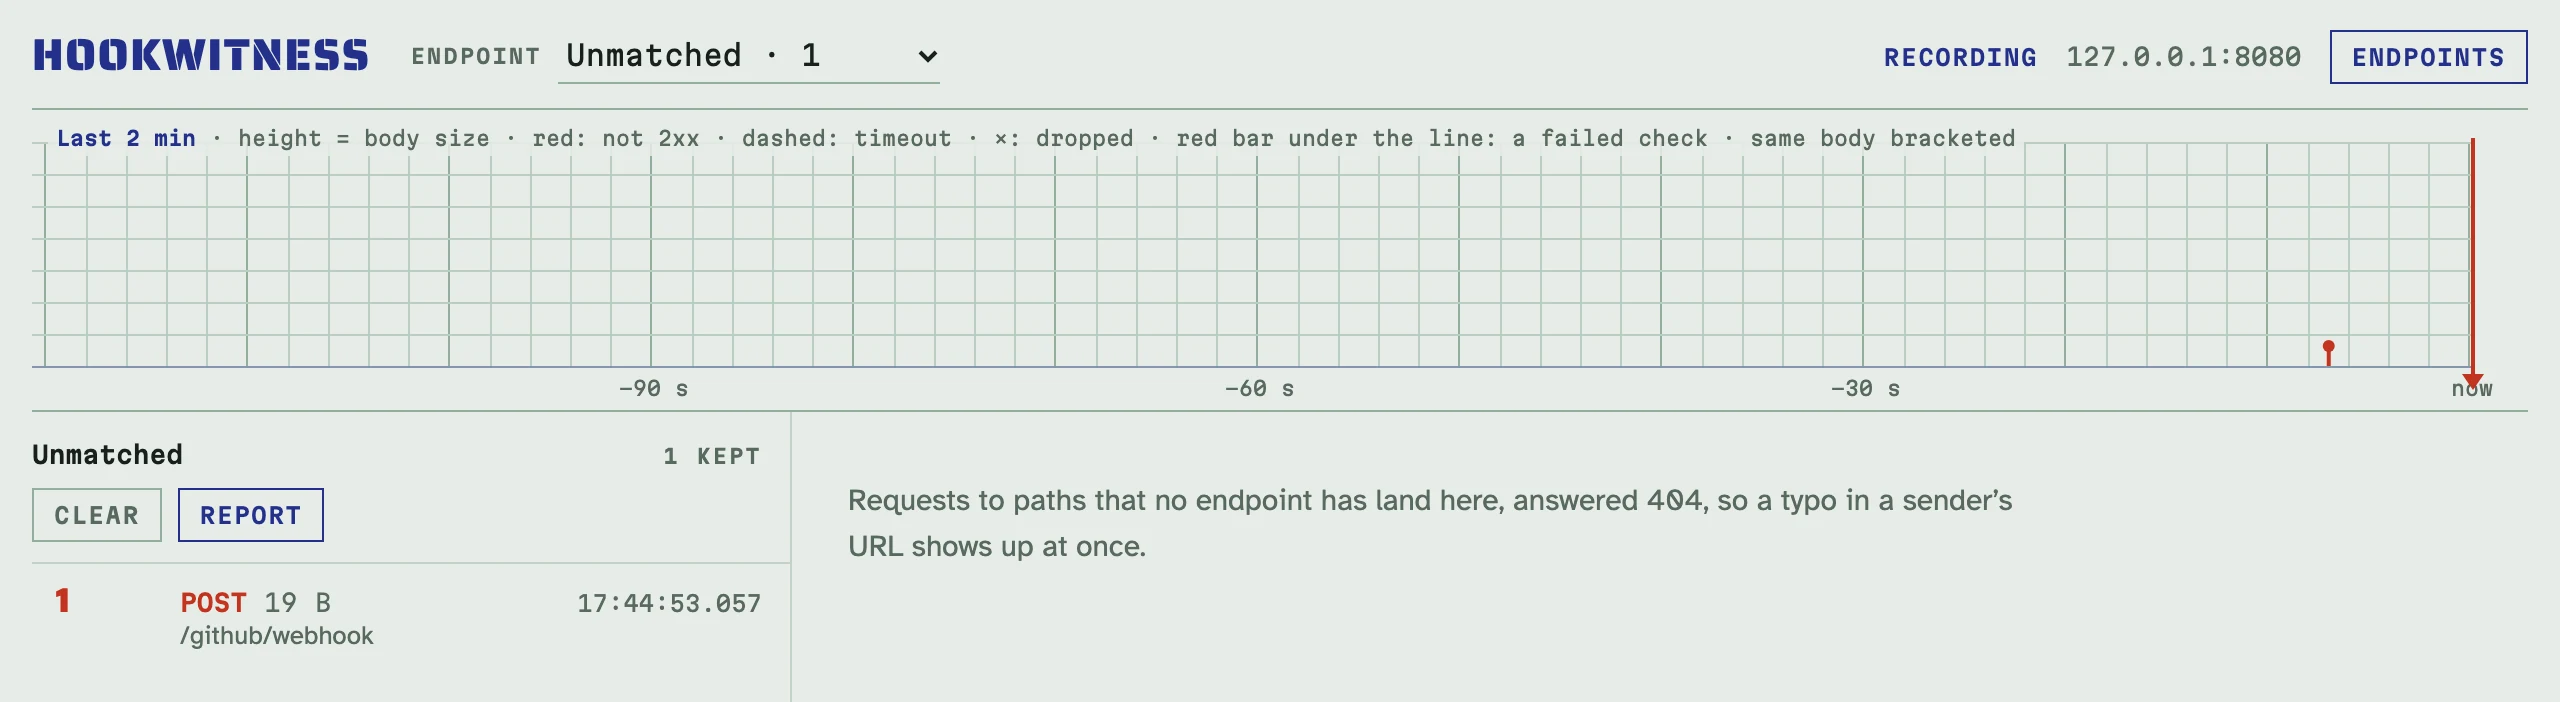
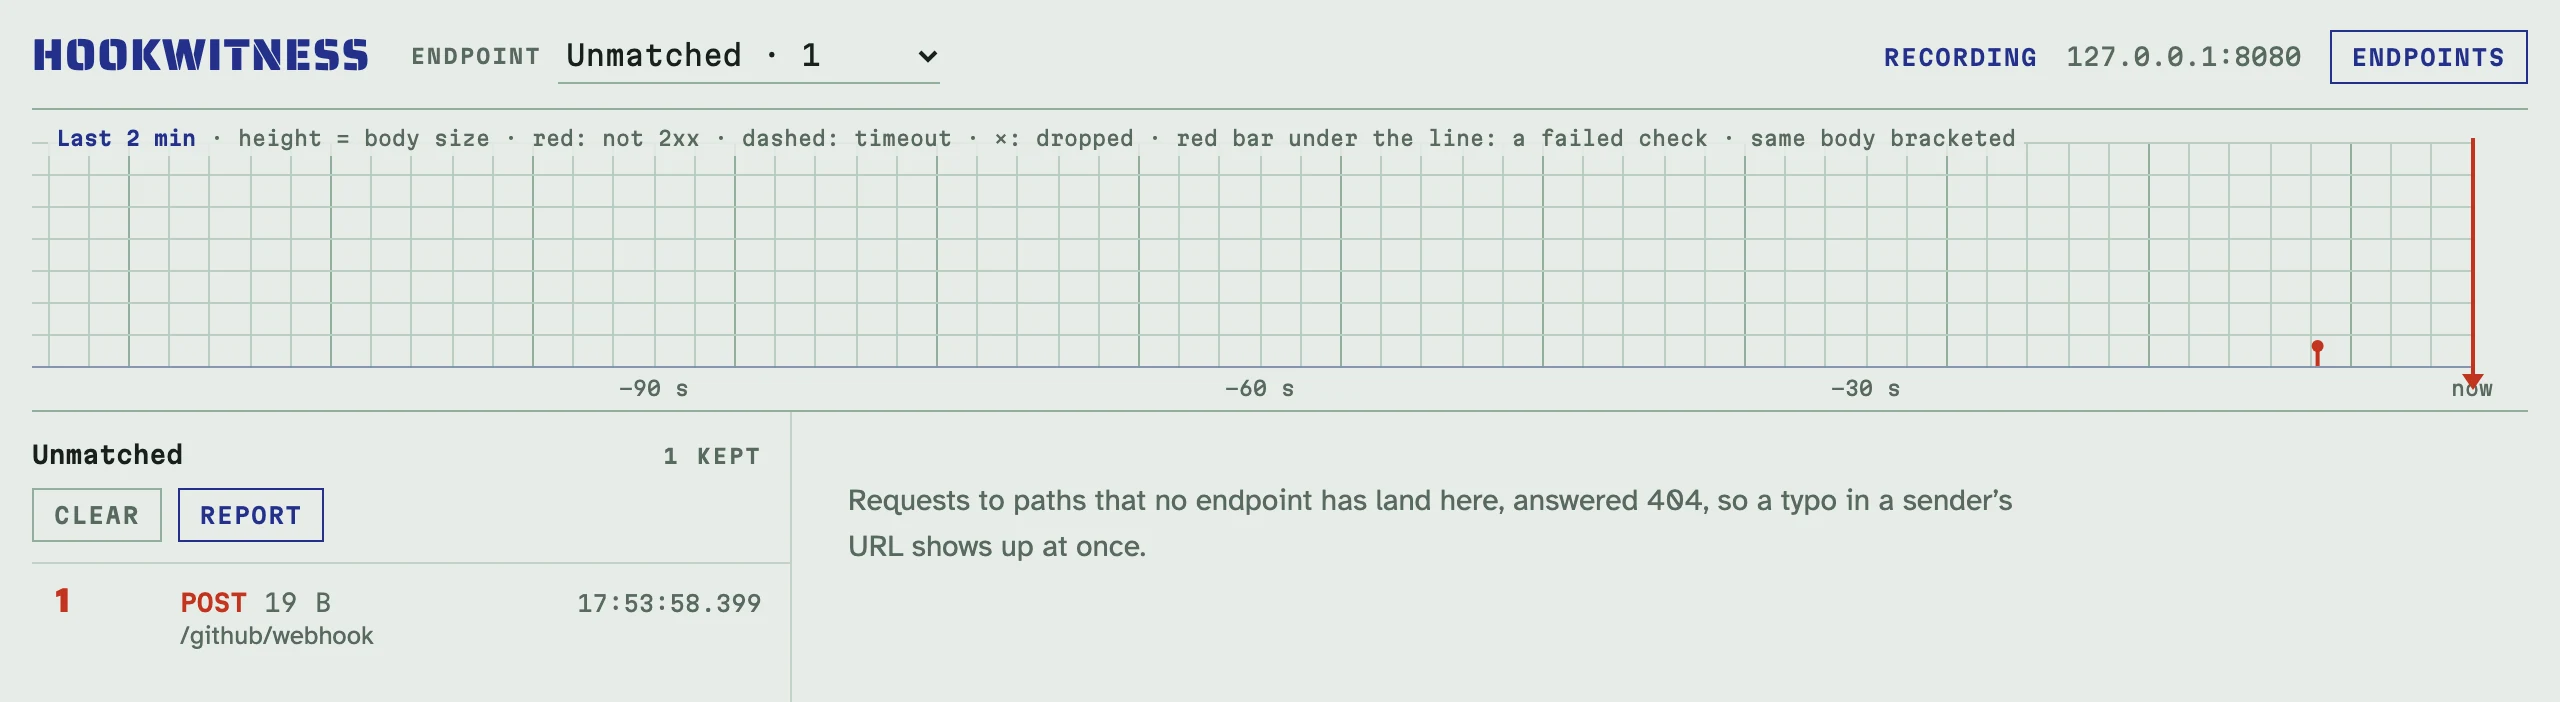
docs: media runs with a fixed test secret key
Fingerprints of secrets in the shots no longer change with every run;
only the times on the pages do, which CONTRIBUTING now says.

Changed region(s): [[0.875, 0.4786, 0.9375, 0.5085], [0.25, 0.8376, 0.3125, 0.8675]]

diff --git a/CONTRIBUTING.md b/CONTRIBUTING.md
@@ -62,7 +62,8 @@ the same pull request.
   and that every image is used.
 - Screenshots in `docs/images/` come from `make media` (Node 22+ and Chrome):
   a seeded instance shot at 1280 px in the light theme. Regenerate them when
-  the UI visibly changes, and commit only the ones that changed.
+  the UI visibly changes; the times on the pages differ on every run, so
+  commit the images whose content changed, not every file git reports.
 
 ## Reporting a problem
 
